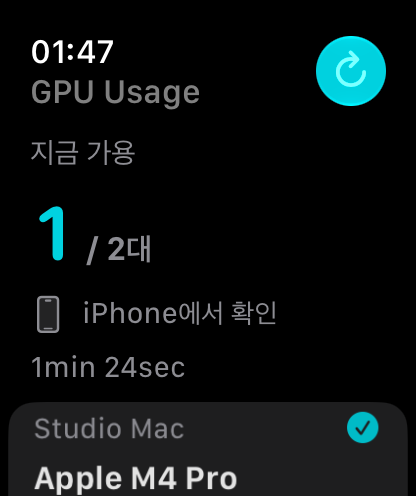
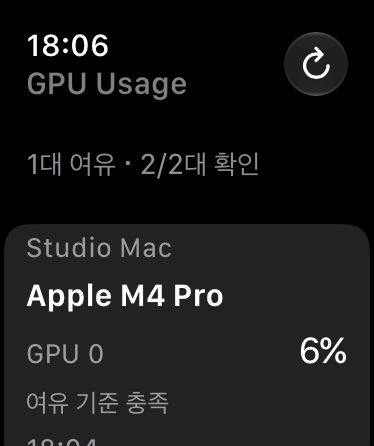
Ship GPU Usage 2.3.0 with focused monitoring screens

diff --git a/gpu-usage/README.md b/gpu-usage/README.md
@@ -1,10 +1,10 @@
 # GPU Usage
 
-Your GPUs, everywhere. A small utility for researchers and developers, with native Mac, iPhone and iPad apps, an Apple Watch companion, a VS Code dashboard, and an agent-friendly CLI.
+Check GPU load and keep an eye on a running process without repeatedly opening an SSH terminal. GPU Usage is a small utility for individual researchers and developers using a few directly accessible servers.
 
 **Beta limitation:** Production iCloud setup is pending. Cross-device settings sync and iPhone-to-Mac Pro activation do not work yet. Manual server registration and viewing work independently on each device.
 
-[Download the current beta](https://github.com/saankim/myapps-releases/releases/tag/gpu-usage-v2.2.1) · [Privacy](PRIVACY.md)
+[Download the current beta](https://github.com/saankim/myapps-releases/releases/tag/gpu-usage-v2.3.0) · [Privacy](PRIVACY.md)
 
 ## Install
 
@@ -34,7 +34,7 @@ Open Settings → **Server Management (서버 관리)** → **Add Server (서버
 
 The first server key is remembered automatically, so the initial connection has no fingerprint confirmation step. If the key changes later, monitoring stops and the app shows a fingerprint warning. Confirm the replacement using the existing server trust dialog to reconnect. Existing trusted keys are preserved. SSH remains encrypted and requires user authentication; the app does not modify your SSH configuration or known-hosts files. Automatic first-use trust cannot detect an impersonated server on that very first connection.
 
-Settings sync uses the same iCloud account and iCloud Keychain. There is no QR setup, required Mac setup step on iPhone, remote helper, or push relay. Current beta deployment limitations are listed in the release notes.
+There is no QR setup, required Mac setup step on iPhone, remote helper, or push relay. The cross-device sync implementation uses iCloud and iCloud Keychain, but production activation is still pending; register each device separately in this beta.
 
 ## Apple GPU and MPS
 
@@ -46,17 +46,19 @@ On macOS the process picker lists the connected user's processes. It cannot iden
 
 ## Monitor
 
-The dashboard uses the original compact rows, small usage bars and recent-history charts, with clear stale-data states. A GPU is available when both values are below your thresholds (default: compute 10%, VRAM 20%). Unreachable servers remain visible and can be disabled.
+The dashboard opens directly to compact GPU rows with small usage bars. On iPhone/iPad, select a server for readings, recent history and watched processes. On Mac, expand “최근 30분” for history or use the footer’s “작업 감시” button. Registered watches appear as short summaries; empty watch and history sections stay out of the way.
+
+“여유” (low load) means both values are below your thresholds (default: compute 10%, memory 20%). It is not a reservation or permission to use a GPU. Failed or expired readings remain visibly marked as previous observations and are excluded from current low-load counts. High utilization alone is not shown as an error.
 
 Use the server filter at the top of the dashboard (or in Settings) to choose which servers appear. The GPU count, Mac menu-bar summary and VS Code view follow that selection; the Watch follows the iPhone selection. Hidden servers continue to be queried and can still generate notifications. Select **Show all servers** to include newly discovered servers automatically. CLI host arguments remain independent of the display filter. Selection is saved locally; cross-device sync has the beta limitation above.
 
 The awake Mac polls at your chosen interval while its menu-bar app runs. iPhone and iPad poll while visible; background refresh happens only when the operating system permits it. Apple Watch displays the latest phone snapshot and marks old results for rechecking. Background timing and notifications are not guaranteed. Job completion means the selected process disappeared, not that it succeeded.
 
-In Settings → **Available GPU Alerts (빈 GPU 알림)**, turn alerts on to reveal their conditions. Availability alerts wait for repeated successful readings over a configurable duration (30 seconds by default). A failed query or a long observation gap restarts that duration. After an alert, another alert requires a busy-to-available transition and the configured cooldown (10 minutes by default). **Notify once** turns availability alerts off after the next notification is scheduled; enabling them again starts a fresh observation period.
+In Settings → **GPU Low-load Alerts (GPU 여유 알림)**, turn alerts on to reveal their conditions. Availability alerts wait for repeated successful readings over a configurable duration (30 seconds by default). A failed query or a long observation gap restarts that duration. After an alert, another alert requires a busy-to-available transition and the configured cooldown (10 minutes by default). **Notify once** turns availability alerts off after the next notification is scheduled; enabling them again starts a fresh observation period.
 
 Expand **Add from Running Tasks (실행 중인 작업에서 추가)** beside the server to find a process by name or PID. Give watched processes a recognizable name, such as an experiment name. Use the task’s More menu to rename or stop watching it; the five most recent history entries stay visible, with older entries expandable. The latest 100 process-end detections remain in job history after a watch is removed. Timestamps show when disappearance was observed, not the exact exit time or a successful result.
 
-Star servers to show them first, using the star in the iPhone/iPad server detail or the server’s More menu in **Server Management (서버 관리)**. Choose **Representative Connection (대표 연결 선택)** in that menu to group connections. A single selection sheet shows matching suggestions; changes apply when you save. Grouping changes presentation and avoids duplicate availability alerts; it preserves the original connections and process watches. Separate them again at any time. The VS Code dashboard uses the same ordering and groups.
+Star servers to show them first, using the More menu in iPhone/iPad server details or the server’s More menu in **Server Management (서버 관리)**. Choose **Representative Connection (대표 연결 선택)** in that menu to group connections. A single selection sheet shows matching suggestions; changes apply when you save. Grouping changes presentation and avoids duplicate availability alerts; it preserves the original connections and process watches. Separate them again at any time. The VS Code dashboard uses the same ordering and groups.
 
 Connection failures show a short explanation, retry and server-settings actions, and expandable diagnostic details. Previously collected readings remain visibly stale until a successful refresh.
 
@@ -66,7 +68,7 @@ On iPhone or iPad, add **GPU Usage** from the Home Screen widget gallery after o
 
 Widgets and complications use the latest device snapshot, without making SSH connections themselves. They follow the app's server selection and mark expired readings for rechecking instead of showing them as currently available. Tap to open the app and request fresh data. Widget and complication refresh timing is controlled by the operating system.
 
-Viewing and settings sync are free. Pro adds local GPU-available and process-completion notifications and the CLI, at USD **1.99/month** or **19.99/year**, with Apple-localized storefront pricing. TestFlight purchases use Apple's test environment. Public subscriptions require App Review before sale.
+Viewing is free. Settings sync will also be free when production activation is complete. Pro adds local low-load and watched-process exit notifications and the CLI, at USD **1.99/month** or **19.99/year**, with Apple-localized storefront pricing. TestFlight purchases use Apple's test environment. Public subscriptions require App Review before sale.
 
 ```sh
 gpu-usage --json
